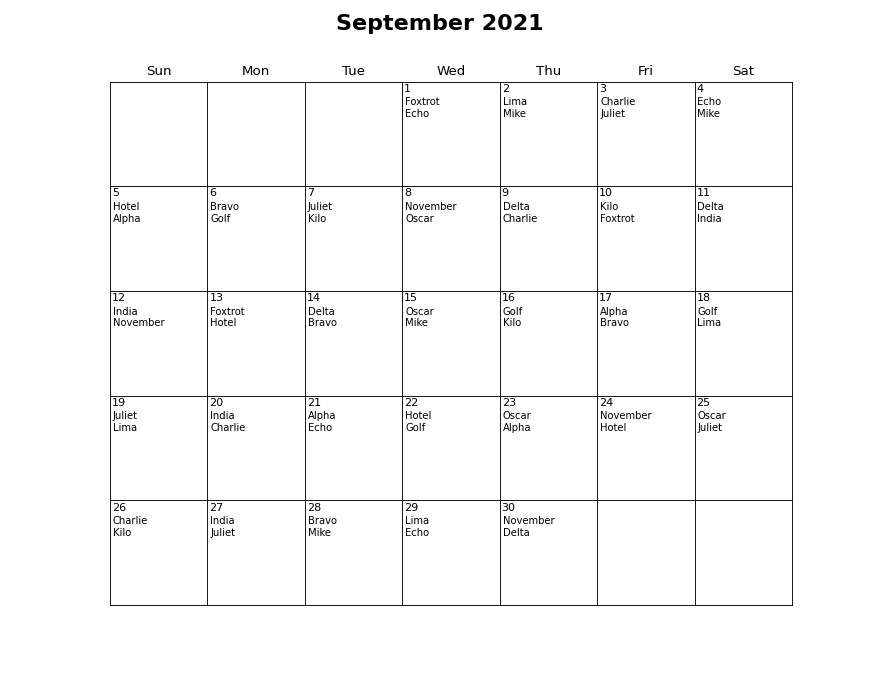
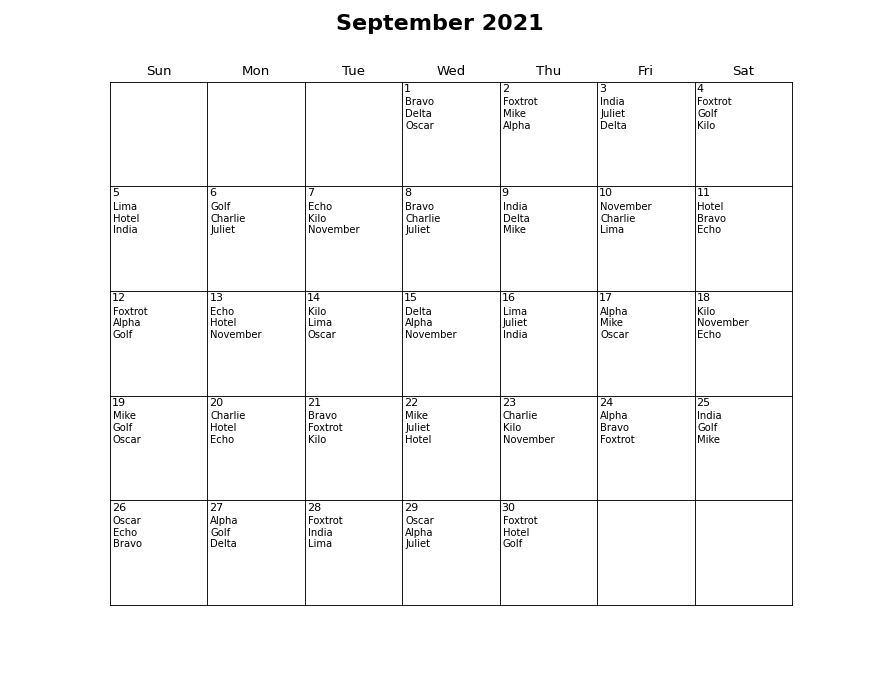
V1.2

diff --git a/main.py b/main.py
@@ -15,10 +15,11 @@ from mplcal import MplCalendar
 
 # constants
 YEAR = datetime.today().year
-MIN_SCHEDULED_RAS = 2
 WEEKDAYS = ['Sunday', 'Monday', 'Tuesday', 'Wednesday', 'Thursday']
 WEEKENDS = ['Friday', 'Saturday']
 NUM_DAYS_YEAR = 365
+WEEKDAY_STAFF_NUM = 1
+WEEKEND_STAFF_NUM = 1
 
 # month number and string
 MONTH_NUM = datetime.today().month + 1
@@ -64,10 +65,14 @@ for DAY_NUM in range(NUM_DAYS_MONTH):
         for keys, RA in RA_DETAILS.items():
             if RA.scheduled_weekdays < count_threshold:
                 count_threshold = RA.scheduled_weekdays
-        while len(candidates) < MIN_SCHEDULED_RAS:
+        while len(candidates) < WEEKDAY_STAFF_NUM:
             for keys, RA in RA_DETAILS.items():
                 if RA.scheduled_weekdays <= count_threshold and DAY_NUM + 1 in RA.availability_clean and RA.name not in candidates:
-                    candidates.append(RA.name)
+                    if DAY_NUM:
+                        if RA.name not in schedule_dict[DAY_NUM]:
+                            candidates.append(RA.name)
+                    else:
+                        candidates.append(RA.name)
             if len(candidates) == 1 and not candidate_guaranteed:
                 candidate_guaranteed = candidates[0]
             count_threshold += 1
@@ -75,15 +80,90 @@ for DAY_NUM in range(NUM_DAYS_MONTH):
             if count_threshold == NUM_DAYS_YEAR:
                 print("NOT ENOUGH CANDIDATES FOR " + MONTH_STRING + " " + str(DAY_NUM + 1) + " (WEEKDAY) - Currently have " + str(len(candidates)) + " candidate(s)")
                 sys.exit(1)
+
+        # update partnerships
+        if len(candidates) == WEEKDAY_STAFF_NUM:
+            if WEEKEND_STAFF_NUM > 1:
+                for i in range(len(candidates)):
+                    if not i and candidates[i] not in RA_DETAILS[candidates[0]].partnerships:
+                        RA_DETAILS[candidates[0]].partnerships.append(candidates[i])
+                        RA_DETAILS[candidates[i]].partnerships.append(candidates[0])
+            else:
+                pass  # no partnerships updated if alone
+
+            # update weekday counts
+            for i in range(len(candidates)):
+                RA_DETAILS[candidates[i]].scheduled_weekdays += 1
+
+            # append RA names to the schedule management dictionary
+            candidates_selected = []
+            for i in range(len(candidates)):
+                candidates_selected.append(candidates[i])
+
+            schedule_dict[DAY_NUM + 1] = candidates_selected
+
+        # scheduling process
+        elif len(candidates) > WEEKDAY_STAFF_NUM:
+            candidate_selection = random.sample(range(0, len(candidates)), len(candidates))
+            if not candidate_guaranteed:
+                candidates_selected = [candidates[candidate_selection[0]]]
+                for index in range(1, len(candidate_selection)):
+                    if len(candidates_selected) != WEEKDAY_STAFF_NUM:
+                        if candidates[candidate_selection[index]] not in RA_DETAILS[candidates[candidate_selection[0]]].partnerships:
+                            RA_DETAILS[candidates[candidate_selection[0]]].partnerships.append(candidates[candidate_selection[index]])
+                            RA_DETAILS[candidates[candidate_selection[index]]].partnerships.append(candidates[candidate_selection[0]])
+                            candidates_selected.append(candidates[candidate_selection[index]])
+                            break
+                if len(candidates_selected) != WEEKDAY_STAFF_NUM:
+                    for index in range(1, len(candidate_selection)):
+                        if candidates[candidate_selection[index]] not in candidates_selected and len(candidates_selected) != WEEKDAY_STAFF_NUM:
+                            candidates_selected.append(candidates[candidate_selection[index]])
+                            break
+
+                # update weekday counts
+                for i in range(len(candidates_selected)):
+                    RA_DETAILS[candidates[candidate_selection[i]]].scheduled_weekdays += 1
+
+                # append RA names to the schedule management dictionary
+                schedule_dict[DAY_NUM + 1] = candidates_selected
+            else:
+                candidates_selected = []
+                for index in range(0, len(candidate_selection)):
+                    if len(candidates_selected) != WEEKDAY_STAFF_NUM-1:
+                        if candidates[candidate_selection[index]] not in RA_DETAILS[candidate_guaranteed].partnerships \
+                                and not candidate_guaranteed == candidates[candidate_selection[index]]:
+                            RA_DETAILS[candidate_guaranteed].partnerships.append(candidates[candidate_selection[index]])
+                            RA_DETAILS[candidates[candidate_selection[index]]].partnerships.append(candidate_guaranteed)
+                            candidates_selected.append(candidates[candidate_selection[index]])
+                            break
+                if len(candidates_selected) != WEEKDAY_STAFF_NUM-1:
+                    for index in range(0, len(candidate_selection)):
+                        if candidates[candidate_selection[index]] not in candidates_selected and len(candidates_selected) != WEEKDAY_STAFF_NUM-1 \
+                                and not candidate_guaranteed == candidates[candidate_selection[index]]:
+                            candidates_selected.append(candidates[candidate_selection[index]])
+                            break
+
+                # update weekday counts
+                for i in range(len(candidates_selected)):
+                    RA_DETAILS[candidate_guaranteed].scheduled_weekdays += 1
+                    RA_DETAILS[candidates[candidate_selection[i]]].scheduled_weekdays += 1
+
+                # append RA names to the schedule management dictionary
+                candidates_selected.append(candidate_guaranteed)
+                schedule_dict[DAY_NUM + 1] = candidates_selected
     elif calendar.day_name[datetime(YEAR, MONTH_NUM, DAY_NUM + 1).weekday()] in WEEKENDS:
         weekday_boolean = False
         for keys, RA in RA_DETAILS.items():
             if RA.scheduled_weekends < count_threshold:
                 count_threshold = RA.scheduled_weekends
-        while len(candidates) < MIN_SCHEDULED_RAS:
+        while len(candidates) < WEEKEND_STAFF_NUM:
             for keys, RA in RA_DETAILS.items():
                 if RA.scheduled_weekends <= count_threshold and DAY_NUM + 1 in RA.availability_clean and RA.name not in candidates:
-                    candidates.append(RA.name)
+                    if DAY_NUM:
+                        if RA.name not in schedule_dict[DAY_NUM]:
+                            candidates.append(RA.name)
+                    else:
+                        candidates.append(RA.name)
             if len(candidates) == 1 and not candidate_guaranteed:
                 candidate_guaranteed = candidates[0]
             count_threshold += 1
@@ -92,75 +172,76 @@ for DAY_NUM in range(NUM_DAYS_MONTH):
                 print("NOT ENOUGH CANDIDATES FOR " + MONTH_STRING + " " + str(DAY_NUM + 1) + " (WEEKEND) - Currently have " + str(len(candidates)) + " candidate(s)")
                 sys.exit(1)
 
-    # scheduling process
-    if len(candidates) > 2:
-        candidate_selection = random.sample(range(0, len(candidates)), len(candidates))
-
-    # update partnerships
-    if len(candidates) == 2:
-        if candidates[1] not in RA_DETAILS[candidates[0]].partnerships:
-            RA_DETAILS[candidates[0]].partnerships.append(candidates[1])
-            RA_DETAILS[candidates[1]].partnerships.append(candidates[0])
-        candidate_selected = 1
-
-        # update weekday/weekend counts
-        if weekday_boolean:
-            RA_DETAILS[candidates[0]].scheduled_weekdays += 1
-            RA_DETAILS[candidates[1]].scheduled_weekdays += 1
-        else:
-            RA_DETAILS[candidates[0]].scheduled_weekends += 1
-            RA_DETAILS[candidates[1]].scheduled_weekends += 1
-
-        # append RA names to the schedule management dictionary
-        schedule_dict[DAY_NUM + 1] = candidates[0], candidates[1]
-    elif len(candidates) > 2:
-        if not candidate_guaranteed:
-            for index in range(1, len(candidate_selection)):
-                if candidates[candidate_selection[index]] not in RA_DETAILS[candidates[candidate_selection[0]]].partnerships:
-                    RA_DETAILS[candidates[candidate_selection[0]]].partnerships.append(candidates[candidate_selection[index]])
-                    RA_DETAILS[candidates[candidate_selection[index]]].partnerships.append(candidates[candidate_selection[0]])
-                    candidate_selected = index
-                    break
-            if index == len(candidate_selection) - 1:
-                if candidates[candidate_selection[1]] not in RA_DETAILS[candidates[candidate_selection[0]]].partnerships:
-                    RA_DETAILS[candidates[candidate_selection[0]]].partnerships.append(candidates[candidate_selection[1]])
-                    RA_DETAILS[candidates[candidate_selection[1]]].partnerships.append(candidates[candidate_selection[0]])
-                candidate_selected = 1
-
-            # update weekday/weekend counts
-            if weekday_boolean:
-                RA_DETAILS[candidates[candidate_selection[0]]].scheduled_weekdays += 1
-                RA_DETAILS[candidates[candidate_selection[candidate_selected]]].scheduled_weekdays += 1
+        # update partnerships
+        if len(candidates) == WEEKEND_STAFF_NUM:
+            if WEEKEND_STAFF_NUM > 1:
+                for i in range(len(candidates)):
+                    if not i and candidates[i] not in RA_DETAILS[candidates[0]].partnerships:
+                        RA_DETAILS[candidates[0]].partnerships.append(candidates[i])
+                        RA_DETAILS[candidates[i]].partnerships.append(candidates[0])
             else:
-                RA_DETAILS[candidates[candidate_selection[0]]].scheduled_weekends += 1
-                RA_DETAILS[candidates[candidate_selection[candidate_selected]]].scheduled_weekends += 1
+                pass  # no partnerships updated if alone
+
+            # update weekend counts
+            for i in range(len(candidates)):
+                RA_DETAILS[candidates[i]].scheduled_weekends += 1
 
             # append RA names to the schedule management dictionary
-            schedule_dict[DAY_NUM + 1] = candidates[candidate_selection[0]], candidates[candidate_selection[candidate_selected]]
-        else:
-            for index in range(0, len(candidate_selection)):
-                if candidates[candidate_selection[index]] not in RA_DETAILS[candidate_guaranteed].partnerships\
-                        and not candidate_guaranteed == candidates[candidate_selection[index]]:
-                    RA_DETAILS[candidate_guaranteed].partnerships.append(candidates[candidate_selection[index]])
-                    RA_DETAILS[candidates[candidate_selection[index]]].partnerships.append(candidate_guaranteed)
-                    candidate_selected = index
-                    break
-            if index == len(candidate_selection) - 1:
-                if candidates[candidate_selection[1]] not in RA_DETAILS[candidate_guaranteed].partnerships:
-                    RA_DETAILS[candidate_guaranteed].partnerships.append(candidates[candidate_selection[1]])
-                    RA_DETAILS[candidates[candidate_selection[1]]].partnerships.append(candidate_guaranteed)
-                candidate_selected = 1
+            candidates_selected = []
+            for i in range(len(candidates)):
+                candidates_selected.append(candidates[i])
 
-            # update weekday/weekend counts
-            if weekday_boolean:
-                RA_DETAILS[candidate_guaranteed].scheduled_weekdays += 1
-                RA_DETAILS[candidates[candidate_selection[candidate_selected]]].scheduled_weekdays += 1
+            schedule_dict[DAY_NUM + 1] = candidates_selected
+
+        # scheduling process
+        elif len(candidates) > WEEKEND_STAFF_NUM:
+            candidate_selection = random.sample(range(0, len(candidates)), len(candidates))
+            if not candidate_guaranteed:
+                candidates_selected = [candidates[candidate_selection[0]]]
+                for index in range(1, len(candidate_selection)):
+                    if len(candidates_selected) != WEEKEND_STAFF_NUM:
+                        if candidates[candidate_selection[index]] not in RA_DETAILS[candidates[candidate_selection[0]]].partnerships:
+                            RA_DETAILS[candidates[candidate_selection[0]]].partnerships.append(candidates[candidate_selection[index]])
+                            RA_DETAILS[candidates[candidate_selection[index]]].partnerships.append(candidates[candidate_selection[0]])
+                            candidates_selected.append(candidates[candidate_selection[index]])
+                            break
+                if len(candidates_selected) != WEEKEND_STAFF_NUM:
+                    for index in range(1, len(candidate_selection)):
+                        if candidates[candidate_selection[index]] not in candidates_selected and len(candidates_selected) != WEEKEND_STAFF_NUM:
+                            candidates_selected.append(candidates[candidate_selection[index]])
+                            break
+
+                # update weekend counts
+                for i in range(len(candidates_selected)):
+                    RA_DETAILS[candidates[candidate_selection[i]]].scheduled_weekends += 1
+
+                # append RA names to the schedule management dictionary
+                schedule_dict[DAY_NUM + 1] = candidates_selected
             else:
-                RA_DETAILS[candidate_guaranteed].scheduled_weekends += 1
-                RA_DETAILS[candidates[candidate_selection[candidate_selected]]].scheduled_weekends += 1
+                candidates_selected = []
+                for index in range(0, len(candidate_selection)):
+                    if len(candidates_selected) != WEEKEND_STAFF_NUM - 1:
+                        if candidates[candidate_selection[index]] not in RA_DETAILS[candidate_guaranteed].partnerships \
+                                and not candidate_guaranteed == candidates[candidate_selection[index]]:
+                            RA_DETAILS[candidate_guaranteed].partnerships.append(candidates[candidate_selection[index]])
+                            RA_DETAILS[candidates[candidate_selection[index]]].partnerships.append(candidate_guaranteed)
+                            candidates_selected.append(candidates[candidate_selection[index]])
+                            break
+                if len(candidates_selected) != WEEKEND_STAFF_NUM - 1:
+                    for index in range(0, len(candidate_selection)):
+                        if candidates[candidate_selection[index]] not in candidates_selected and len(candidates_selected) != WEEKEND_STAFF_NUM - 1 \
+                                and not candidate_guaranteed == candidates[candidate_selection[index]]:
+                            candidates_selected.append(candidates[candidate_selection[index]])
+                            break
 
-            # append RA names to the schedule management dictionary
-            schedule_dict[DAY_NUM + 1] = candidate_guaranteed, candidates[candidate_selection[candidate_selected]]
+                # update weekend counts
+                for i in range(len(candidates_selected)):
+                    RA_DETAILS[candidate_guaranteed].scheduled_weekends += 1
+                    RA_DETAILS[candidates[candidate_selection[i]]].scheduled_weekends += 1
+
+                # append RA names to the schedule management dictionary
+                candidates_selected.append(candidate_guaranteed)
+                schedule_dict[DAY_NUM + 1] = candidates_selected
 
 # confirm correct names scheduled for correct dates
 print("RAs Scheduled Dates")
@@ -183,8 +264,12 @@ print("-------------------------------------------")
 # create calendar with names of RAs on duty labeled on respective date
 calendar_create = MplCalendar(YEAR, MONTH_NUM)
 for DAY_NUM in range(NUM_DAYS_MONTH):
-    calendar_create.add_event(DAY_NUM + 1, schedule_dict[DAY_NUM + 1][0])
-    calendar_create.add_event(DAY_NUM + 1, schedule_dict[DAY_NUM + 1][1])
+    if calendar.day_name[datetime(YEAR, MONTH_NUM, DAY_NUM + 1).weekday()] in WEEKDAYS:
+        for i in range(WEEKDAY_STAFF_NUM):
+            calendar_create.add_event(DAY_NUM + 1, schedule_dict[DAY_NUM + 1][i])
+    elif calendar.day_name[datetime(YEAR, MONTH_NUM, DAY_NUM + 1).weekday()] in WEEKENDS:
+        for i in range(WEEKEND_STAFF_NUM):
+            calendar_create.add_event(DAY_NUM + 1, schedule_dict[DAY_NUM + 1][i])
 calendar_create.show()
 
 calendar_save_path = MONTH_STRING + "_" + str(YEAR) + "_duty_schedule"
